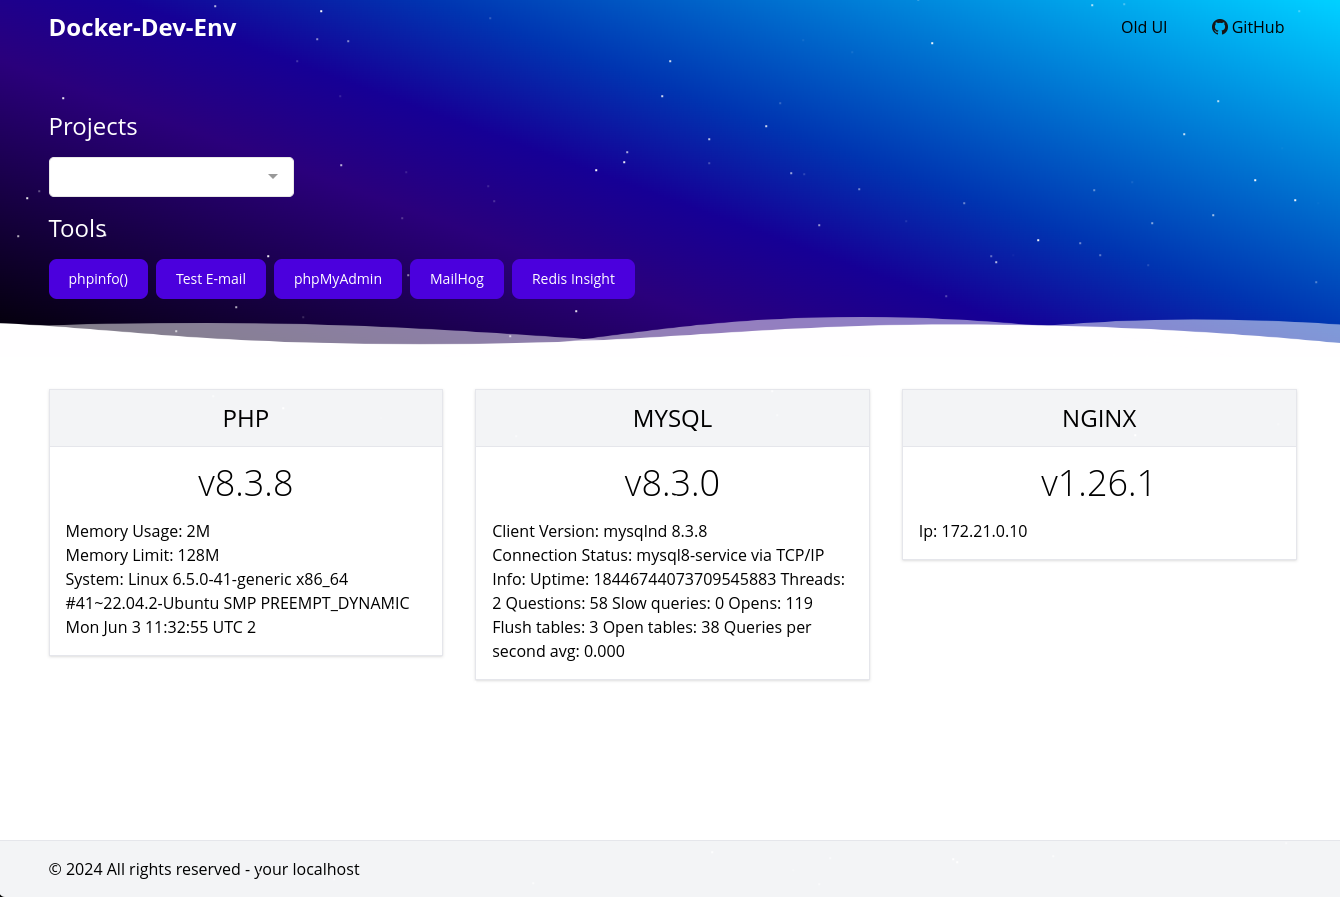
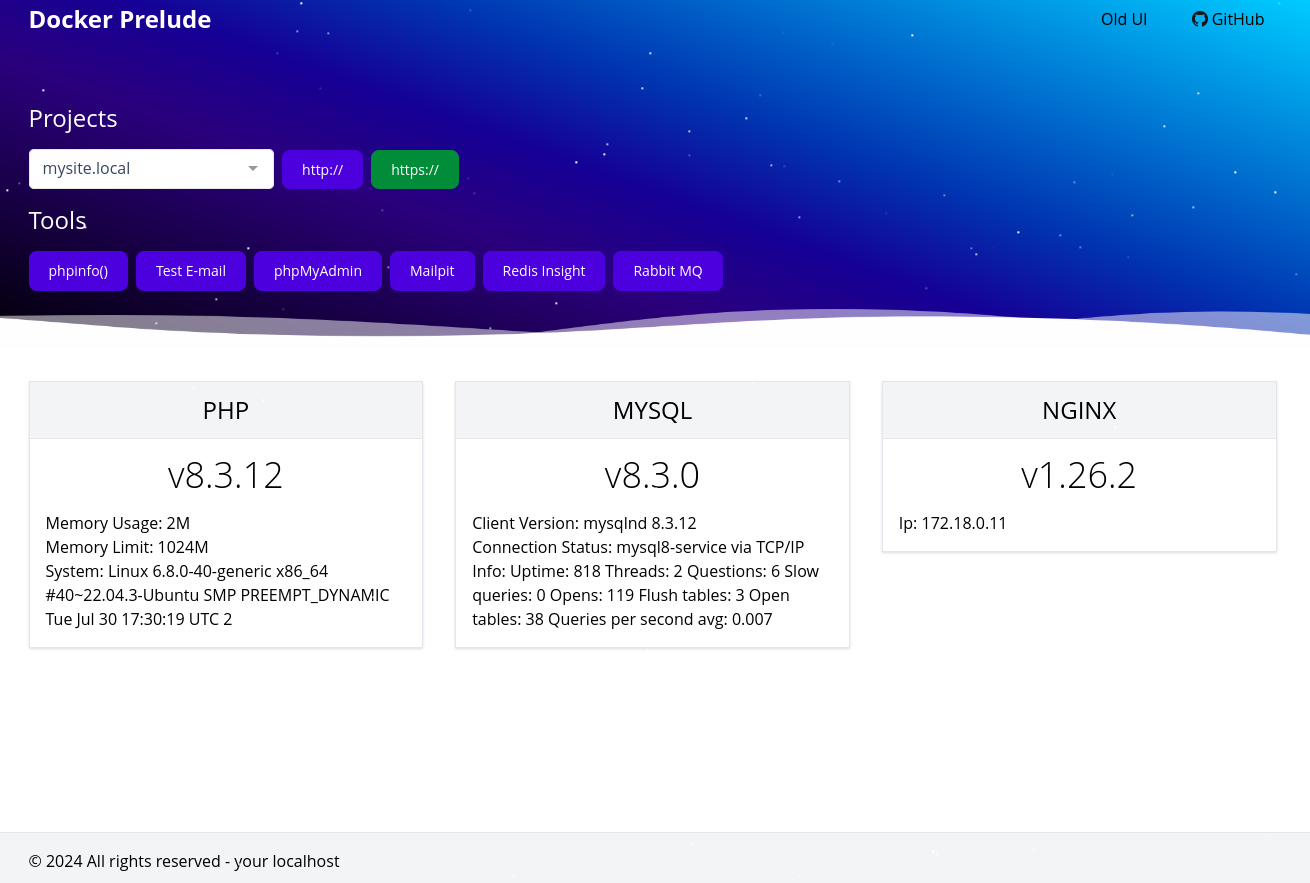
project renaming

diff --git a/apps/default/src/Builders/ConfigBuilder.php b/apps/default/src/Builders/ConfigBuilder.php
@@ -6,6 +6,8 @@ use App\Helpers\AppHelper;
 
 class ConfigBuilder
 {
+    const APP_NAME = 'Docker Prelude';
+    const REPO_LINK = 'https://github.com/pkolomeitsev/docker-prelude';
 
     /**
      * @param string $dir
@@ -19,8 +21,8 @@ class ConfigBuilder
         $appList = AppHelper::getAppList();
 
         return [
-            'appName' => 'Docker-Dev-Env',
-            'gitHubLink' => 'https://github.com/pkolomeitsev/docker-dev-env',
+            'appName' => self::APP_NAME,
+            'gitHubLink' => self::REPO_LINK,
             'projects' => $projects,
             'appList' => $appList,
             'systemInfo' => [
@@ -66,8 +68,8 @@ class ConfigBuilder
         $appList = AppHelper::getAppListOld();
 
         return [
-            'appName' => 'Docker-Dev-Env',
-            'gitHubLink' => 'https://github.com/pkolomeitsev/docker-dev-env',
+            'appName' => self::APP_NAME,
+            'gitHubLink' => self::REPO_LINK,
             'projects' => $projects,
             'appList' => $appList,
             'php' => [
